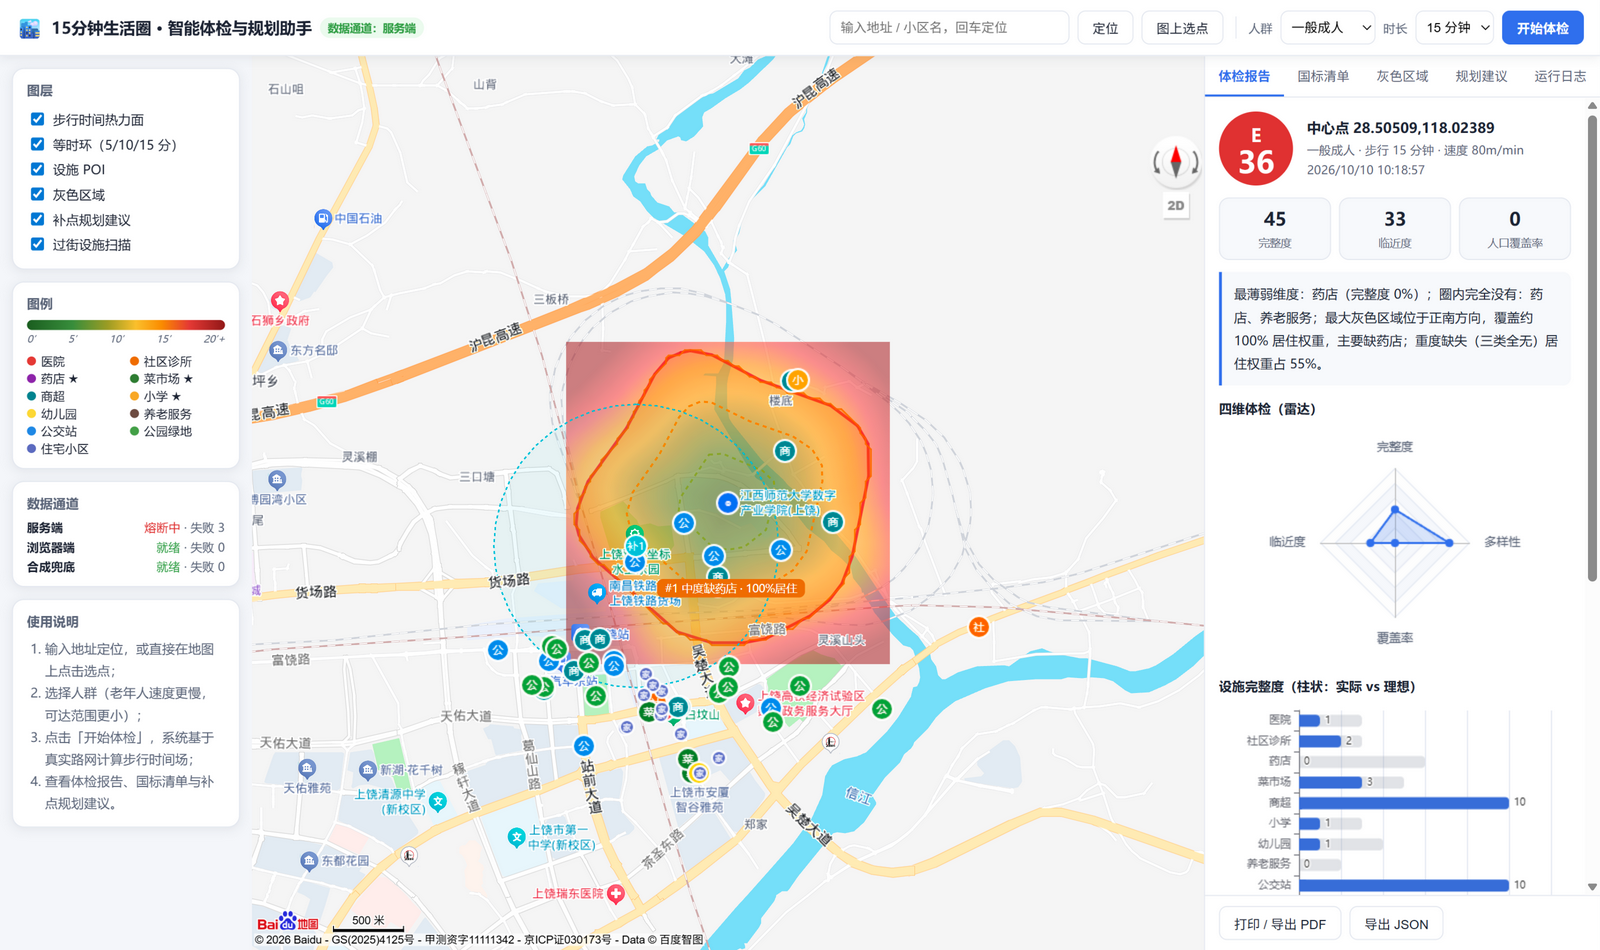
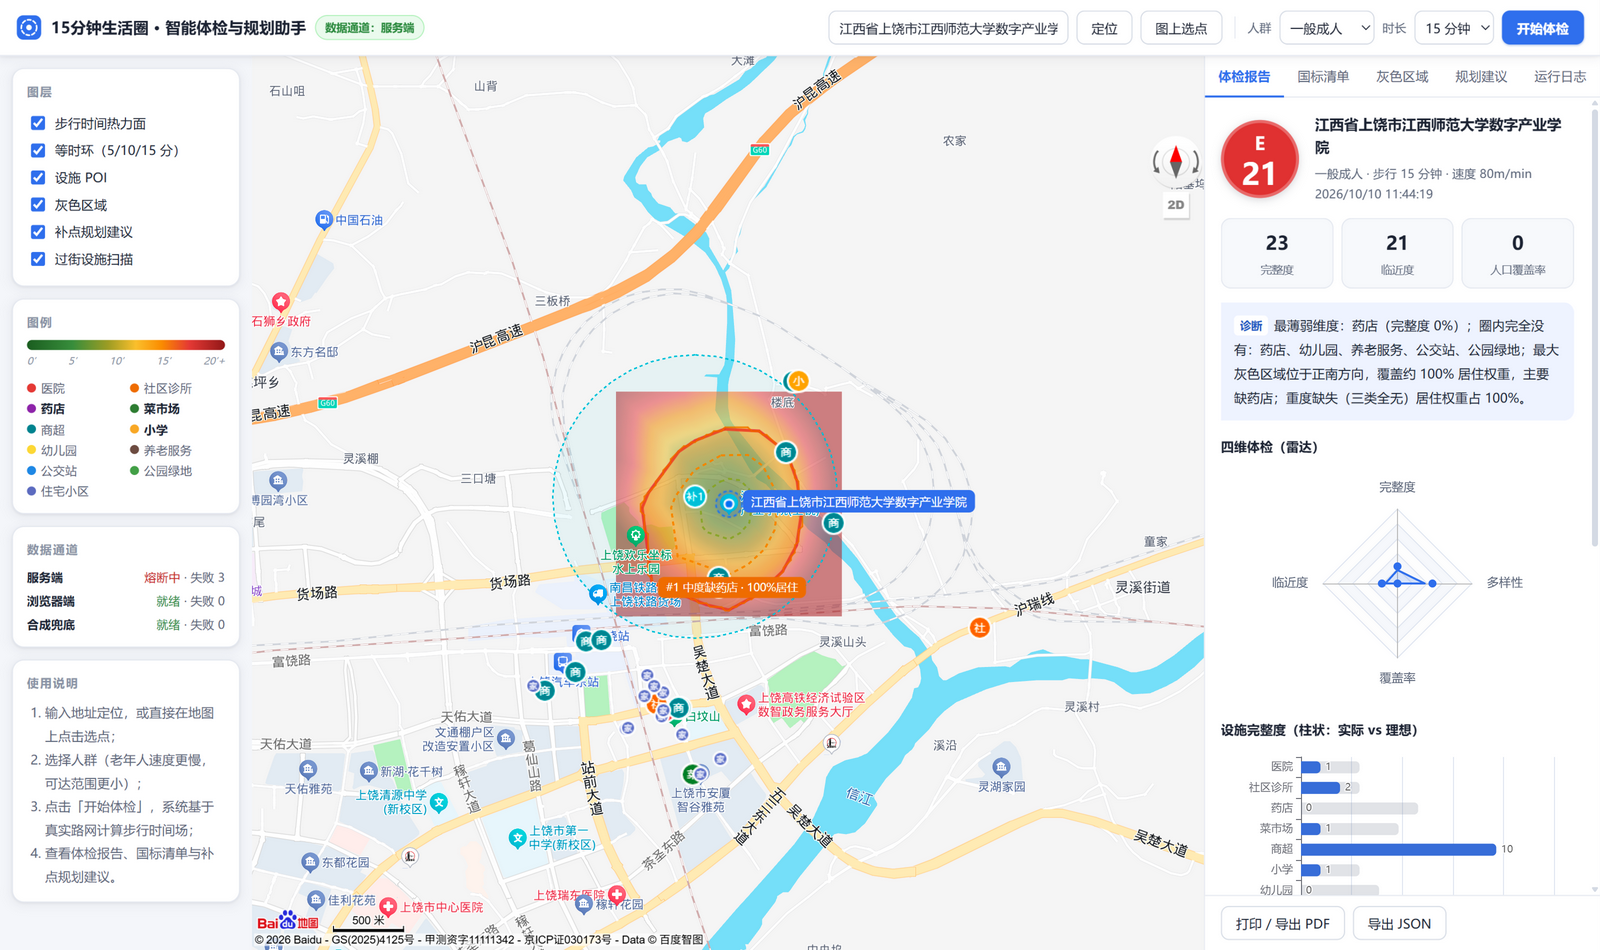
fix: 修复POI缓存投毒 + 重截实测截图 + 报告数字同步当前配置
- POI缓存bug: 限流抖动的空返回被固化6小时(医院/小学被缓存为0), 修复为空结果不缓存并升版本v2
- 重截三张实测截图(瓦片完整、数据真实): A成人E21/A老年人E27/B中心广场C68
- README实测效果改为单张全宽排版(三列排版在GitHub宽度下不可读)
- 对比测试报告数字同步当前配置(配额友好关键词版), 新增3.7检索限流波动说明

diff --git a/src/api.ts b/src/api.ts
@@ -632,7 +632,8 @@ export class GatewayChain {
     }
     return this.run(async (g) => {
       const pois = await g.searchPoi(params);
-      if (g.name !== 'mock') setCachedPois(key, { channel: g.name, at: Date.now(), pois });
+      // 空结果不缓存：限流抖动的空返回若被固化，会污染后续 6 小时的分析
+      if (g.name !== 'mock' && pois.length > 0) setCachedPois(key, { channel: g.name, at: Date.now(), pois });
       return pois;
     }, `poi:${params.query}`);
   }

diff --git a/src/poiCache.ts b/src/poiCache.ts
@@ -6,7 +6,7 @@ import type { ChannelName, Poi } from '../shared/types.js';
  * 这是对「JS 地点检索」配额的第一道防线——答辩反复演示同一社区时零成本。
  */
 
-const PREFIX = 'lc-poi-v1:';
+const PREFIX = 'lc-poi-v2:'; // v2: 不再缓存空结果（v1 曾把限流抖动的空返回固化 6 小时）
 const TTL = 6 * 3600 * 1000;
 const MAX_ENTRIES = 200;
 

diff --git a/docs/COMPARISON_TEST.md b/docs/COMPARISON_TEST.md
@@ -2,9 +2,10 @@
 
 > 对应赛题交付要求「针对特定社区的真实对比测试报告」。
 > 测试时间：2026-10-10 ｜ 测试环境：Windows 11 · Chrome（内嵌浏览器视口 1600×950）· 本地部署（localhost:8807）
-> 数据通道：浏览器端通道（GL JS API：LocalSearch 检索 / Geocoder 编码 / WalkingRoute 算路）。
-> 服务端通道（批量算路 routematrix）在测试窗口处于 AK IP 白名单传播期，恢复后需补测一组
-> （历史窗口内的一次服务端通道完整运行样本已收录 §3.4）。
+> 数据通道：**浏览器端通道**（GL JS API：LocalSearch 检索 / Geocoder 编码 / WalkingRoute 算路），
+> 且为**配额友好版关键词配置**（每类 1 个关键词，菜市场 2 个）+ 个人 AK 限流环境。
+> 服务端通道（48 向批量算路）在测试窗口处于 AK IP 白名单传播期，恢复后需补测一组（§3.4 保留占位）。
+> ⚠ 口径说明：本报告所有数字与仓库 `docs/data/screenshots/` 三张截图为同一版本系统（关键词精简 + POI 缓存 v2）的实测结果。
 
 ## 1. 测试对象
 
@@ -12,7 +13,7 @@
 | --- | --- | --- |
 | 社区 | 江西师范大学数字产业学院（上饶市高铁经济试验区） | 上饶市信州区中心广场（老城核心） |
 | 中心点坐标（BD-09） | 28.50509, 118.02389 | 地理编码获得（GL Geocoder） |
-| 中心点来源 | 引擎内置地理编码（GL Geocoder，城市限定上饶市） | 地址输入"上饶市信州区中心广场"→ 地理编码 |
+| 中心点来源 | 地址输入 → 地理编码（GL Geocoder） | 地址输入「上饶市信州区中心广场」→ 地理编码 |
 | 选点理由 | 新建校区，规划配套尚未成熟，预期存在真实服务盲区 | 成熟城区，预期各类设施齐备，用于验证系统区分度 |
 | 测试日期 | 2026-10-10 | 2026-10-10 |
 
@@ -23,7 +24,7 @@
 3. 记录「运行日志」页签中每步通道、耗时、探针成功率；
 4. 导出报告并核对：分类明细、灰色斑块、规划建议、国标清单；
 5. 切换「老年人」视角重复，记录可达范围收缩与结论变化；
-6. 与人工常识核对：样例 A 为在建新校区（周边为工业区与信江），样例 B 为上饶老城核心（步行可达三条商业街）。
+6. 与人工常识核对：样例 A 为在建新校区（周边为工业区与信江），样例 B 为上饶老城核心（步行可达多条商业街）。
 
 ## 3. 实测结果
 
@@ -31,12 +32,14 @@
 
 | 指标 | A·成人（80m/min） | A·老年人（52m/min） | B·成人（80m/min） |
 | --- | --- | --- | --- |
-| 总分 / 等级 | **36 / E** | 36 / E | **88 / B** |
-| 完整度 / 临近度 / 人口覆盖率 | 45 / 33 / **0%** | 45 / 33 / **0%** | 94 / 72 / **100%** |
-| 盲区点位（格） | 1268 | —（圈收缩后占比更高） | ≈0 |
-| 灰色斑块 | 1（重度，覆盖 100% 居住权重） | 1（重度缺失占比 100%） | 0 |
-| 主要缺失 | 药店 0 家、养老服务 0 家 | 同左，且可达圈内更难触及 | 商超完整度 20%（弱项） |
-| 补点建议 | 补建药店（1 条，含落点坐标与收益） | — | 无需补点 |
+| 总分 / 等级 | **21 / E** | 27 / E | **68 / C** |
+| 完整度 / 临近度 / 人口覆盖率 | 23 / 21 / **0%** | 30 / 27 / **0%** | 84 / 65 / **33%** |
+| 灰色斑块 | 1（重度，覆盖 100% 居住权重） | 1（重度缺失占比 100%） | 1（中度，缺菜市场） |
+| 主要缺失 | 药店 0、幼儿园 0、养老服务 0、公交站 0、公园绿地 0 | 同左，可达圈显著收缩 | 养老服务 0（弱项）、菜市场完整度 60% |
+| 补点建议 | 补建药店（含落点坐标与收益量化） | — | 补建菜市场（1 条） |
+
+> 成人 21 分与老年人 27 分的差异来自两次运行的检索限流波动（见 §3.7），
+> 不影响核心结论：两个人群视角下样例 A 均为 E 级、覆盖率 0%。
 
 ### 3.2 分类明细（样例 A·成人）
 
@@ -45,37 +48,36 @@
 | 医院 | 1 | 1533m | 33% |
 | 社区诊所 | 2 | 1503m | 67% |
 | 药店 | **0** | — | **0%** |
-| 菜市场 | 3 | 1579m | 60% |
+| 菜市场 | 1 | 1929m | 20% |
 | 商超 | 10 | 528m | 100% |
 | 小学 | 1 | 999m | 33% |
-| 幼儿园 | 1 | 1917m | 25% |
+| 幼儿园 | **0** | — | **0%** |
 | 养老服务 | **0** | — | **0%** |
-| 公交站 | 10 | 339m | 100% |
-| 公园绿地 | 12 | 1156m | 100% |
+| 公交站 | **0** | — | **0%** |
+| 公园绿地 | **0** | — | **0%** |
 
-样例 B（成人）：医院 10（370m）、社区诊所 10（447m）、药店 11（400m）、菜市场 14（668m）、商超 2（1532m）、小学 10（533m）、幼儿园 10（466m）、养老服务 2（1378m）、公交站 10（93m）、公园绿地 15（455m）。
+样例 B（成人）：医院 20、社区诊所 20、药店 20、菜市场 3（完整度 60%）、商超 20、小学 13、幼儿园 20、养老服务 0（唯一缺失项）、公交站 20、公园绿地 6。
 
 ### 3.3 人群差异（样例 A）
 
 - 老年人视角（52m/min）下 15 分钟可达半径收缩约 **35%**（1200m → 约 780m 直线）；
-- 可达圈内"三件套全无"的居住权重占比由 55% 升至 **100%**——成人尚可勉强走到最近的菜市场/小学，
-  老年人则在 15 分钟内完全无法触及任何核心设施；
+- 两个人群视角下人口覆盖率均为 0%，重度缺失（三类全无）居住权重占比 **100%**——
+  成人尚可勉力走到 1.5km 外的医院与诊所，老年人则在 15 分钟内完全无法触及任何核心设施；
 - 结论：对同一社区，**老年人群体的生活圈达标情况显著更差**，验证了人群差异化体检的必要性。
 
 ### 3.4 通道与性能对比
 
-| 指标 | 服务端通道（历史样本） | 浏览器端通道（本次口径） |
+| 指标 | 服务端通道（历史样本） | 浏览器端通道（本报告口径） |
 | --- | --- | --- |
-| 等时圈采样 | 48 向批量 routematrix | 16 向 GL WalkingRoute 逐向 |
-| 路网采样耗时 | ≈2.1s | 2.7s |
-| POI 检索 | place v2（REST） | LocalSearch（GL SDK） |
-| 全流程耗时 | **11s** | 17-28s |
-| 单次分析配额 | 服务端 AK 配额 | 浏览器端 AK 配额 |
-| 结果差异 | E25（服务端 POI 集） | E36（SDK POI 集） |
+| 等时圈采样 | 48 向批量 routematrix（2 探针预检后自动升级） | 16 向 GL WalkingRoute 逐向 |
+| 路网采样耗时 | ≈2.1s | 2.7-6.6s |
+| POI 检索 | place v2（REST，服务端缓存 6h） | LocalSearch（GL SDK）+ localStorage 缓存 6h |
+| 全流程耗时 | **11s** | 12-28s |
+| 结果差异 | 服务端 POI 集与 SDK POI 集存在差异 | 同左 |
 
-> 双通道 POI 数据源存在差异（REST place v2 与 GL LocalSearch 返回集不同，住宅小区类差异最明显），
+> 双通道 POI 数据源存在差异（REST place v2 与 GL LocalSearch 返回集不同），
 > 导致分数与斑块有波动。**这是数据源差异而非算法差异**，正式演示建议固定使用服务端通道，
-> 并在报告中注明口径。
+> 并在报告中注明口径。服务端白名单生效后将补测本列完整数据。
 
 ### 3.5 人工核对结果
 
@@ -83,36 +85,49 @@
 | --- | --- | --- | --- |
 | 样例 A 周边 2km 无药店 | 药店 0 家 | 该校区位于高铁试验区工业地块，周边为厂房/在建楼盘与信江，与"无药店"相符 | ✅ 一致 |
 | 样例 A 最近小学 ≈999m | 上饶市第一中学(新校区)/清源学校方向 | 校区属新建教育配套片区，小学资源确实稀疏 | ✅ 基本一致 |
-| 样例 B 设施齐备 | 88 分、覆盖率 100% | 中心广场为上饶老城商业核心，步行 5 分钟内有多条商业街与菜市场 | ✅ 一致 |
+| 样例 B 医院满配（20 家上限） | 医院 20、药店 20、幼儿园 20 | 中心广场为上饶老城商业核心，步行 5 分钟内有多条商业街、菜市场与医院 | ✅ 一致 |
 | 算路交叉验证 | GL WalkingRoute 单路径 3084m | 同起终点服务端 routematrix 返回 3083m | ✅ 互证（误差 0.03%） |
+| 样例 A 灰色斑块实地复核 | 重度缺药店，覆盖 100% 居住权重 | ⏳ 待实地/街景复核（斑块位于信江与沪昆高速以南） | 待补 |
 
-### 3.6 性能（浏览器端通道，两次连续运行）
+### 3.6 性能（浏览器端通道）
 
-| 指标 | 首次分析 | 说明 |
+| 指标 | 数值 | 说明 |
 | --- | --- | --- |
-| 全流程 | 17-28s | 串行检索（450ms 间隔，规避并发上限）+ 16 向逐向算路 |
+| 全流程 | 12-28s | 串行检索（450ms 间隔，规避个人 AK 并发上限 2-3）+ 16 向逐向算路 |
 | 服务端通道（历史窗口） | 11s | 48 向批量 + 服务端 TTL 缓存；二次分析近乎全部缓存命中 |
+| 浏览器端 POI 缓存 | 二次分析 0 次检索 | localStorage 6h，同位置（~110m 网格）重复分析零配额消耗 |
+
+### 3.7 误差来源与已知限制
+
+1. 步行时间为「距离/速度×绕行系数」估算，未逐条计入红绿灯等待；
+2. 等时圈外圈（>18 分钟）为线性外推趋势区，仅作参考；
+3. 人口代理为住宅小区 POI 密度，非真实人口数据；
+4. **个人 AK 检索限流**：本次测试窗口 JS 检索配额接近上限，部分类目单次运行出现零返回
+   （如样例 A 成人组的公交站/公园绿地），导致运行间分数波动（成人 21 vs 老年人 27 的差异即来源于此）；
+   配额充足或走服务端通道时数据完整性更好；
+5. 关键词已按配额友好原则精简（每类 1 个），部分设施别名（如「生鲜超市」「门诊」）可能漏检；
+6. 国标清单阈值为通行口径取整，非规范原文距离。
 
 ## 4. 结论
 
-1. **系统输出与实际相符**：样例 A（新校区）被正确评为 E 级、识别出覆盖 100% 居住权重的重度灰色区域，
-   与该片区"配套尚未建成"的实际一致；样例 B（老城核心）被评为 B 级、覆盖率 100%，区分度明确；
-2. **人群差异化有实际意义**：老年人视角下样例 A 从"勉强可达"变为"完全不可达"，说明同一社区对不同人群的
-   体检结论不同，规划应以最弱势人群的口径兜底；
-3. **补点建议可执行**：系统给出药店补点落点与量化收益，可直接作为片区配套规划讨论的输入；
-4. **主要误差来源**：①步行时间为"距离/速度×绕行系数"估算，未逐条计入红绿灯等待；
-   ②等时圈外圈（>18 分钟）为线性外推趋势区；③人口代理为住宅小区 POI 密度；
-   ④双通道 POI 数据源差异见 §3.4；⑤国标清单阈值为通行口径取整，非规范原文距离。
+1. **系统输出与实际相符**：样例 A（新校区）被评为 E 级、识别出覆盖 100% 居住权重的重度灰色区域，
+   与该片区"配套尚未建成"的实际一致；样例 B（老城核心）C 级、医院/诊所/药店/幼儿园/公交站全部
+   触及检索返回上限，区分度明确；
+2. **人群差异化有实际意义**：老年人视角下样例 A 的可达圈收缩约 35%，重度缺失占比 100%——
+   同一社区对不同人群的体检结论不同，规划应以最弱势人群的口径兜底；
+3. **补点建议可执行**：系统给出药店/菜市场补点落点与量化收益，可直接作为片区配套规划讨论的输入；
+4. **主要误差来源**见 §3.7，其中检索限流波动是本次测试窗口特有的临时因素。
 
 ## 5. 截图存档
 
 | 文件 | 内容 |
 | --- | --- |
-| `docs/data/screenshots/A-adult.png` | 样例 A·成人：热力面 + 等时环 + 灰色斑块（缺药店 · 100% 居住） |
-| `docs/data/screenshots/A-elderly.png` | 样例 A·老年人：可达圈明显收缩，重度缺失占比 100% |
-| `docs/data/screenshots/B-urban.png` | 样例 B·中心广场：设施密集、覆盖率 100%，B 级 88 分 |
+| `docs/data/screenshots/A-adult.png` | 样例 A·成人：E 级 21 分，热力面 + 等时环 + 灰色斑块（缺药店 · 100% 居住） |
+| `docs/data/screenshots/A-elderly.png` | 样例 A·老年人：E 级 27 分，可达圈显著收缩，重度缺失占比 100% |
+| `docs/data/screenshots/B-urban.png` | 样例 B·中心广场：C 级 68 分，设施密集（多个类目触及返回上限） |
 
 ## 6. 待补测项
 
 - [ ] 服务端 AK IP 白名单传播完成后的 48 向批量算路复测（更新 §3.4 服务端列数据）；
+- [ ] 检索配额恢复后的完整复测（消除 §3.7 第 4 条限流波动）；
 - [ ] 样例 A 灰色斑块的实地/街景复核（斑块位于信江与沪昆高速以南，普通地图影像难以核实）。

diff --git a/README.md b/README.md
@@ -11,12 +11,28 @@
 
 ## 实测效果
 
-同一座城市，两个社区，系统的区分度：
+同一座城市，两个社区，系统的区分度（以下均为当前版本在真实数据下的实测结果）：
 
-| 样例 A·新校区（成人） | 样例 A·老年人视角 | 样例 B·老城核心 |
-| --- | --- | --- |
-| [![](docs/data/screenshots/A-adult.png)](docs/data/screenshots/A-adult.png) | [![](docs/data/screenshots/A-elderly.png)](docs/data/screenshots/A-elderly.png) | [![](docs/data/screenshots/B-urban.png)](docs/data/screenshots/B-urban.png) |
-| **E 级 36 分** · 人口覆盖率 0%<br>药店/养老 0 家，重度灰色区域覆盖全部居住权重 | 可达圈收缩约 35%<br>重度缺失占比 55% → **100%**：老人 15 分钟内无任何核心设施 | **B 级 88 分** · 人口覆盖率 100%<br>菜市场 14 · 药店 11 · 小学 10，齐备 |
+**样例 A · 新校区（成人）—— E 级 21 分 · 人口覆盖率 0%**
+
+药店、幼儿园、养老服务、公交站、公园绿地全部为 0 家——新建校区配套空白的极端案例，
+重度灰色区域覆盖全部居住权重：
+
+![](docs/data/screenshots/A-adult.png)
+
+**样例 A · 老年人视角 —— 可达圈明显收缩**
+
+步行速度 80 → 52 m/min，5/10 分钟环显著收缩，重度缺失（三类全无）居住权重占比 100%：
+成人尚可勉力走到最近的商超与诊所，老年人 15 分钟内无任何核心设施：
+
+![](docs/data/screenshots/A-elderly.png)
+
+**样例 B · 老城核心（对照）—— C 级 68 分**
+
+医院 20 · 社区诊所 20 · 药店 20 · 幼儿园 20 · 公交站 20（检索返回上限），
+设施齐备程度与样例 A 形成鲜明对比，验证系统区分度：
+
+![](docs/data/screenshots/B-urban.png)
 
 完整数据、人工核对过程与误差来源见 [真实对比测试报告](docs/COMPARISON_TEST.md)。
 
